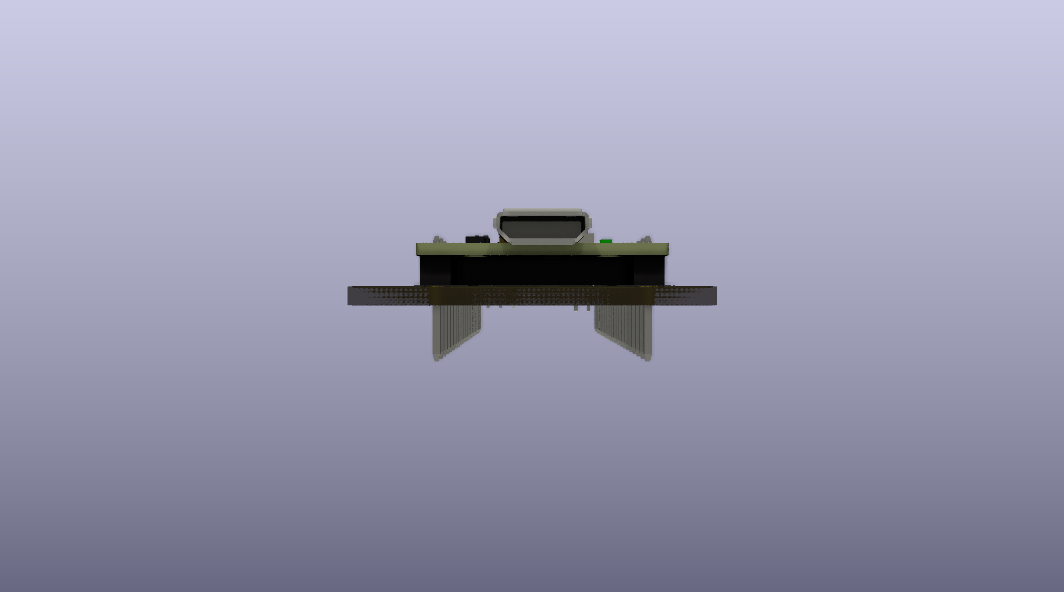
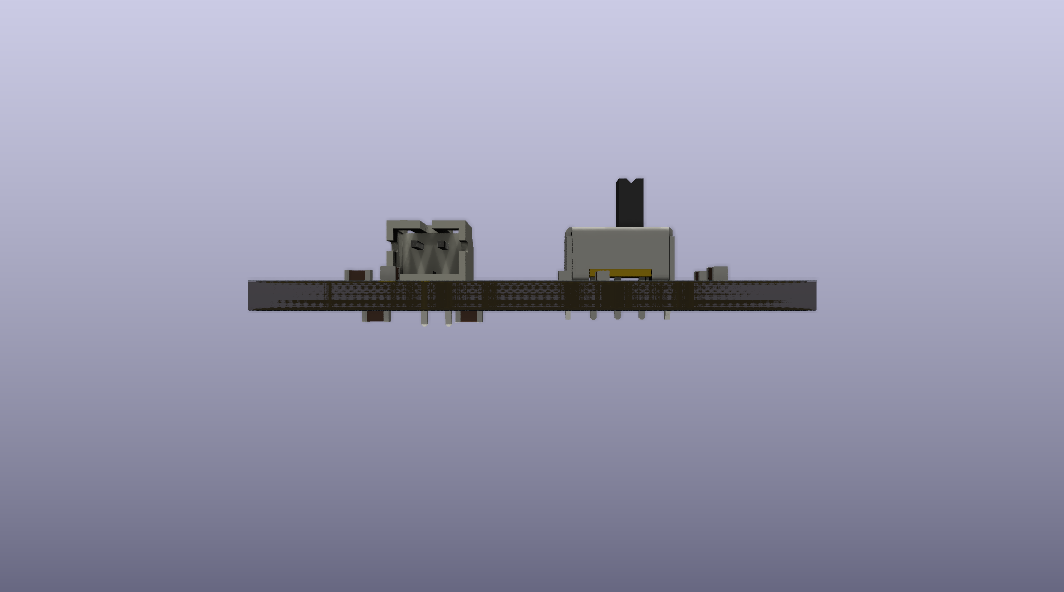
readme.md and pictures update for ESP32 update

Changed region(s): [[0.2171, 0.3041, 0.7754, 0.6081]]

diff --git a/readme.md b/readme.md
@@ -15,7 +15,7 @@ I remembered a c't magazine article about the program **OpenRocket** and I tried
 
 Although it sounds like overkill, to put a flight computer on to the first ever build rocket, I did it.  
 Since I was familiar with **KiCad** I choose to design the flight computer with KiCad.  
-I came up with this design, featuring up to 3 sensors (MPU-6050-A, SGP40 and an BMP280), a Raspberry Pi Pico and a place for the battery and an ON/OFF switch:
+I came up with this design, featuring up to 3 sensors (MPU-6050-A, SGP40 and an BMP280), a XIAO-ESP32-S3 module and a place for the battery and an ON/OFF switch:
 
 ![render-of-PCB](Images/PCB-3D_new.png)
 
@@ -51,7 +51,7 @@ To view, modify, or build this project, you will need the following software:
 | :--- | :--- | :--- |
 | **[OpenRocket](https://openrocket.info)** | Rocket flight simulation and design (`.ork` files) | v23.09 or newer |
 | **[KiCad](https://kicad.org)** | PCB Design & Schematics (`.kicad_*` files) | v8.x or newer |
-| **[MicroPython](https://micropython.org)** | Flight controller firmware (Raspberry Pi Pico) | v1.22+ |
+| **[MicroPython](https://micropython.org)** | Flight controller firmware (ESP32) | v1.22+ |
 | **[Thonny](https://thonny.org)** or **[VS Code](https://code.visualstudio.com/download)** | Recommended IDE for flashing and writing MicroPython | Latest |
 | **Any 3D Slicer** (e.g., [Cura](https://curaslicer.com/), [PrusaSlicer](https://www.prusa3d.com/p/prusaslicer/)) | Slicing `.stl`/`.obj` files for 3D printing | - |
 
